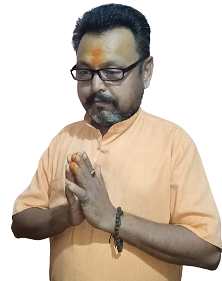
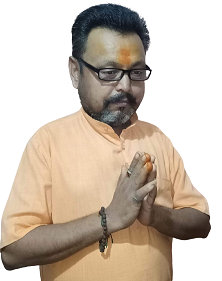
mod img

diff --git a/index.html b/index.html
@@ -25,7 +25,7 @@
         max-width: 600px;
       }
       #apg {
-        right: 0%;
+        left: 1%;
         width: 50%;
         bottom: -1%;
         max-width: 300px;
